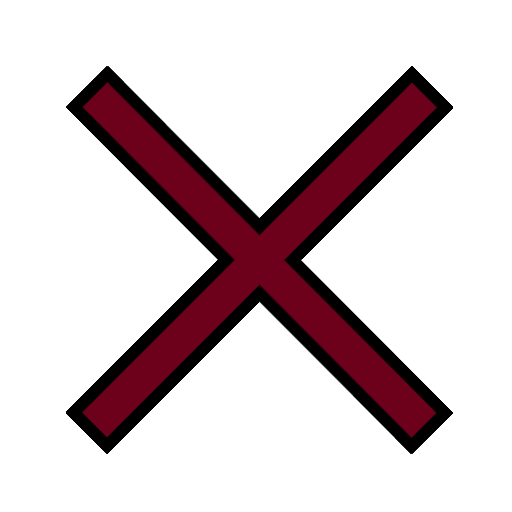
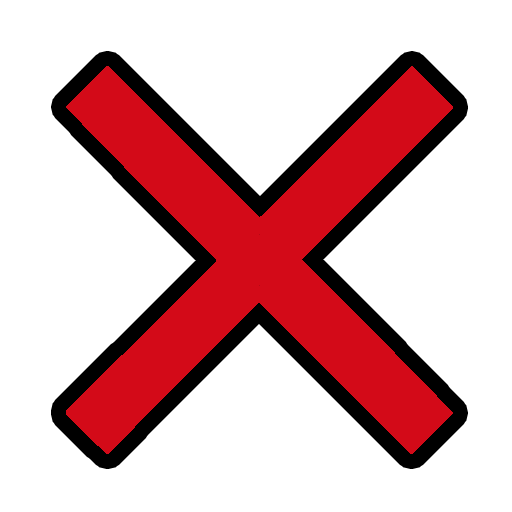
UPDATED internal images in order to match both themes.

diff --git a/Learn CTS/AnimationEdition.Designer.cs b/Learn CTS/AnimationEdition.Designer.cs
@@ -179,7 +179,7 @@
             // 
             this.lbl_name.AutoSize = true;
             this.lbl_name.Font = new System.Drawing.Font("Microsoft Sans Serif", 16F, System.Drawing.FontStyle.Regular, System.Drawing.GraphicsUnit.Point, ((byte)(0)));
-            this.lbl_name.Location = new System.Drawing.Point(39, 190);
+            this.lbl_name.Location = new System.Drawing.Point(37, 191);
             this.lbl_name.Name = "lbl_name";
             this.lbl_name.Size = new System.Drawing.Size(107, 26);
             this.lbl_name.TabIndex = 10;
@@ -189,9 +189,9 @@
             // 
             this.pb_valid.BackColor = System.Drawing.Color.Transparent;
             this.pb_valid.Image = ((System.Drawing.Image)(resources.GetObject("pb_valid.Image")));
-            this.pb_valid.Location = new System.Drawing.Point(9, 192);
+            this.pb_valid.Location = new System.Drawing.Point(4, 188);
             this.pb_valid.Name = "pb_valid";
-            this.pb_valid.Size = new System.Drawing.Size(24, 24);
+            this.pb_valid.Size = new System.Drawing.Size(32, 32);
             this.pb_valid.SizeMode = System.Windows.Forms.PictureBoxSizeMode.StretchImage;
             this.pb_valid.TabIndex = 11;
             this.pb_valid.TabStop = false;

diff --git a/Learn CTS/AnimationEdition.cs b/Learn CTS/AnimationEdition.cs
@@ -70,7 +70,7 @@ namespace Learn_CTS
             {
                 pb_valid.Image = Tools.Image_From_File(System.AppDomain.CurrentDomain.BaseDirectory + "internal" +
                                                        Path.DirectorySeparatorChar + "images" +
-                                                       Path.DirectorySeparatorChar + "gamecard-delete-btn-x64.png");
+                                                       Path.DirectorySeparatorChar + "wrong.png");
             }
         }
 
